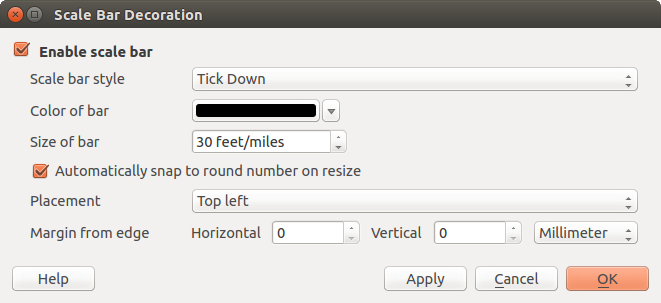
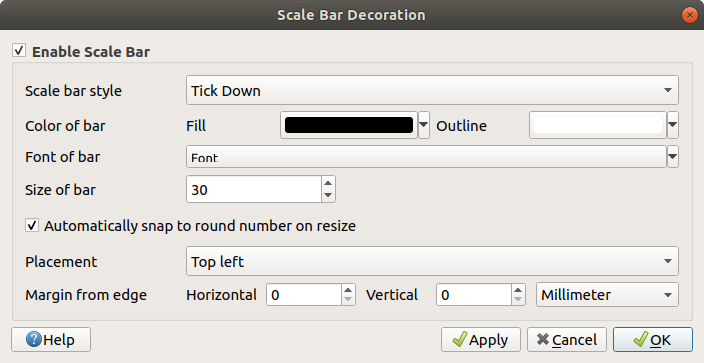
Scale bar decoration (#3248)
Update Scale Bar description
Update the screen shot of the dialog

diff --git a/source/docs/user_manual/introduction/general_tools.rst b/source/docs/user_manual/introduction/general_tools.rst
@@ -924,8 +924,11 @@ To add a scale bar:
 #. Make sure the |checkbox| :guilabel:`Enable scale bar` checkbox is checked.
 #. Choose the style from the :guilabel:`Scale bar style` |selectString|
    combo box.
-#. Select the color for the bar :guilabel:`Color of bar` |selectColor| or use
-   the default black color.
+#. Select the :guilabel:`Color of bar` |selectColor| by chosing
+   a fill color (default: Black) and an outline color (default: White). The scale 
+   bar fill and outline can be made opaque by clicking on the down arrow to the right
+   of the color input.
+#. Select the font of the scale bar from the :guilabel:`Font of bar` |selectString| combo box.
 #. Set the :guilabel:`Size of bar` |selectNumber|.
 #. Optionally, check |checkbox| :guilabel:`Automatically snap to round number
    on resize` to display values easy-to-read.
